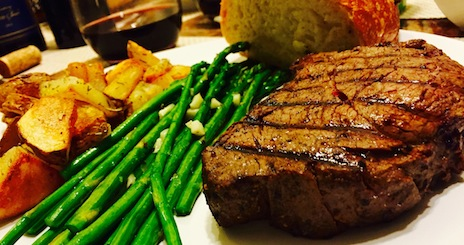
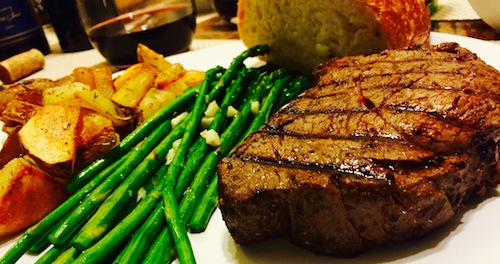
stuff

diff --git a/_posts/2015-09-26-lemoncocoa-pudding.html b/_posts/2015-09-26-lemoncocoa-pudding.html
@@ -1,0 +1,19 @@
+---
+layout: post
+title:  "Lemon Cocoa Pudding"
+date:   2015-09-26
+author: Jessica Dear
+excerpt: Simple lemony cocoa pudding recipe with added liquor!
+tile_image: lemon2.jpg
+carousel_image: lemon1.jpg
+tags:
+  - recipe
+---
+
+<p><img class="pull-left slightly-wider-photo" style="height: 472px; margin-bottom: .5ex" src="/images/posts/2015-09-26-lemoncocoa/lemon.jpg"/>Bacon ipsum dolor amet biltong frankfurter spare ribs, kielbasa andouille pork loin landjaeger cupim. Porchetta leberkas tri-tip chicken, cow meatball prosciutto. Cupim pork doner ground round pancetta. Kevin ham hock jerky salami capicola, beef pancetta filet mignon pork loin spare ribs. Rump pancetta ball tip doner, jerky shank chicken swine picanha alcatra capicola meatloaf ground round sirloin kielbasa. Ribeye porchetta ham landjaeger kevin turkey doner corned beef drumstick short loin. Sirloin t-bone drumstick, short loin landjaeger cupim strip steak pastrami spare ribs ground round salami biltong bresaola pork loin chicken.</p>
+
+<p><img class="pull-left slightly-wider-photo" style="height: 472px; margin-bottom: .5ex" src="/images/posts/2015-09-26-lemoncocoa/cocoa.jpg"/>Shoulder pork loin cow salami tail, capicola jowl picanha strip steak boudin doner biltong tenderloin short loin. Shoulder picanha hamburger tongue tail, biltong cow. Pork chop pork loin chuck biltong pig. Cupim flank sausage cow shoulder alcatra, ribeye fatback pig beef corned beef shankle meatball capicola salami. Sirloin ham hock alcatra shankle tenderloin. Turkey boudin brisket jowl tri-tip picanha flank cow. Tail prosciutto boudin kielbasa jowl landjaeger jerky sirloin tongue sausage t-bone brisket strip steak.</p>
+
+<p><img class="pull-left slightly-wider-photo" style="height: 472px; margin-bottom: .5ex" src="/images/posts/2015-09-26-lemoncocoa/pudding.jpg"/>Pastrami ball tip flank, tenderloin meatloaf ground round pork loin andouille. Tenderloin spare ribs prosciutto tail ham. Alcatra beef meatloaf, pork loin corned beef tail bacon boudin. Turkey jowl doner fatback pig. Brisket cow ground round andouille, bresaola picanha leberkas sausage pastrami chicken.</p>
+
+Shankle strip steak tail hamburger. Turducken cow pork loin, landjaeger beef ribs short loin tongue bresaola drumstick shoulder. Ground round short loin pork loin shoulder bacon ham hock pork chop. Ribeye jerky meatball venison ham hock t-bone bresaola rump. Leberkas meatloaf jerky brisket ham hock frankfurter doner kevin ham.

diff --git a/index.html b/index.html
@@ -7,14 +7,14 @@ layout: homepage
   <h1 class="page-heading"></h1>
 
   <div class="post-list row">
-    {% for post in site.posts %}
-      <div class="col-md-4 post-tile">
+    {% for post in paginator.posts %}
+      <div class="col-md-4 col-lg-3 col-sm-6 col-xs-12 post-tile">
         <div class="highlighter"><a class="post-image" href="{{ post.url | prepend: site.baseurl }}">
           <img class="img-responsive" src="/images/tile-image/{{post.tile_image}}"/>
         </a>
 
         <h2>
-          <a href="{{ post.url | prepend: site.baseurl }}">{{ post.title }}</a>
+          <a href="{{ post.url | prepend: site.baseurl }}">{% if post.tags contains 'recipe' %}Cooking: {% endif %}{{ post.title }}</a>
         </h2>
       </div>
         <aside>{{ post.date | date: "%B %-d, %Y" }}</aside>
@@ -23,8 +23,11 @@ layout: homepage
           {{ post.excerpt }}
         </p>
       </div>
-    {% cycle '', '', '</div><div class="post-list row">' %}
+      <div class="clearfix visible-xs-block"></div>
+    {% cycle '', '<div class="clearfix visible-sm-block"></div>' %}
+    {% cycle '', '', '<div class="clearfix visible-md-block"></div>' %}
+    {% cycle '', '', '', '<div class="clearfix visible-lg-block"></div>' %}
     {% endfor %}
   </div>
-
+  {% include paginator.html %}
 </div>

diff --git a/recipes.html b/recipes.html
@@ -1,7 +1,31 @@
 ---
-layout: page
+layout: collection
 title: Recipes
-permalink: /recipes/
 ---
 
-NONE YET :\
+<div class="home">
+
+  <h1 class="page-heading"></h1>
+
+  <div class="post-list row">
+    {% for post in site.posts %}
+      {% if post.tags contains 'recipe' %}
+      <div class="col-md-4 col-lg-3 col-sm-6 col-xs-12 post-tile">
+        <div class="highlighter"><a class="post-image" href="{{ post.url | prepend: site.baseurl }}">
+          <img class="img-responsive" src="/images/tile-image/{{post.tile_image}}"/>
+        </a>
+
+        <h2>
+          <a href="{{ post.url | prepend: site.baseurl }}">{{ post.title }}</a>
+        </h2>
+      </div>
+        <aside>{{ post.date | date: "%B %-d, %Y" }}</aside>
+      </div>
+      <div class="clearfix visible-xs-block"></div>
+    {% cycle '', '<div class="clearfix visible-sm-block"></div>' %}
+    {% cycle '', '', '<div class="clearfix visible-md-block"></div>' %}
+    {% cycle '', '', '', '<div class="clearfix visible-lg-block"></div>' %}
+    {% endif %}
+    {% endfor %}
+  </div>
+</div>

diff --git a/_includes/paginator.html b/_includes/paginator.html
@@ -1,0 +1,29 @@
+{% if paginator.total_pages > 1 %}
+<nav class="text-center">
+  <ul class="pagination pagination-sm">
+    {% if paginator.previous_page %}
+    <li>
+      <a href="{{ paginator.previous_page_path }}" aria-label="Previous"><span aria-hidden="true">&laquo; Previous</span></a>
+    </li>
+    {% endif %}
+
+    {% for page in (1..paginator.total_pages) %}
+    {% if page == paginator.page %}
+      <li class="active"><a href="#">{{ page }}</a></li>
+    {% elsif page == 1 %}
+      <li><a href="{{ paginator.previous_page_path | prepend: site.baseurl | replace: '//', '/' }}">{{ page }}</a></li>
+    {% else %}
+      <li><a href="{{ site.paginate_path | prepend: site.baseurl | replace: '//', '/' | replace: ':num', page }}">{{ page }}</a></li>
+    {% endif %}
+
+  {% endfor %}
+    {% if paginator.next_page %}
+    <li>
+      <a href="{{ paginator.next_page_path }}" aria-label="Next">
+        <span aria-hidden="true">Next &raquo;</span>
+      </a>
+    </li>
+    {% endif %}
+  </ul>
+</nav>
+{% endif %}

diff --git a/_sass/_overrides.scss b/_sass/_overrides.scss
@@ -23,6 +23,9 @@ article.post-content {
     clear: both;
     margin-bottom: 1em;
   }
+  img.slightly-wider-photo {
+    width: auto;
+  }
   img {
     width: 350px;
     border: 1px solid #111;
@@ -81,8 +84,6 @@ div.post-list {
       margin-top: 1ex;
       display: block;
       img {
-        width: 356px;
-        height: 154px;
         margin: 0 auto;
         border: 2px solid #cdcdcd;
       }
@@ -234,8 +235,25 @@ a.site-title {
 .carousel-fade .carousel-control {
   z-index: 2;
 }
-// // .carousel,
-// // .carousel-inner,
-// // .carousel-inner .item {
-// //   height: 100%;
-// // }
+
+a.carousel-control {
+  opacity: 1;
+}
+
+.pagination li {
+  &.active {
+    a, a:hover {
+      color: #fff;
+      background-color: $text-color;
+      border-color: $text-color;
+    }
+  }
+  a {
+      color: $grey-color;
+      font-size: 2.2ex;
+      &:hover {
+        color: $text-color;
+        background-color: #C0C0C0;
+      }
+  }
+}

diff --git a/_layouts/collection.html b/_layouts/collection.html
@@ -6,12 +6,13 @@
   <body class="page-homepage">
 
     {% include header.html %}
-    {% if paginator.page == 1 %}
-      {% include homepage_carousel.html %}
-    {% endif %}
+
     <!-- <div class="home-picture"></div> -->
 
     <div class="container">
+      <header class="post-header">
+        <h1 class="post-title">{{ page.title }}</h1>
+      </header>
       <div class="page-content">
         <div class="wrapper">
           {{ content }}

diff --git a/css/main.scss b/css/main.scss
@@ -25,7 +25,7 @@ $grey-color-dark:  darken($grey-color, 25%);
 $content-width:    800px;
 
 $on-palm:          600px;
-$on-laptop:        800px;
+$on-laptop:        1150px;
 
 
 

diff --git a/about.html b/about.html
@@ -1,7 +1,6 @@
 ---
 layout: page
 title: About
-permalink: /about/
 ---
 
 <div class="about-page row">

diff --git a/places.html b/places.html
@@ -1,7 +1,6 @@
 ---
 layout: page
 title: Places
-permalink: /places/
 ---
 
 blah

diff --git a/404.html b/404.html
@@ -1,0 +1,1 @@
+<p>That doesn't exist #oops #wah</p>

diff --git a/_posts/2015-09-23-lilian-to-canada.md b/_posts/2015-09-23-lilian-to-canada.md
@@ -10,9 +10,13 @@ carousel_image: enchilada.jpg
 
 
 
-<p><img class="pull-left" src="/images/posts/2015-09-23-lilian-to-canada/enchilada3.jpg"/>Bacon ipsum dolor amet ham picanha boudin pork sausage chicken hamburger beef pastrami fatback frankfurter beef ribs. Pork loin swine pancetta beef kielbasa t-bone kevin sausage frankfurter picanha fatback boudin pastrami salami tri-tip. Short loin jowl pig turducken pastrami pork belly biltong hamburger pancetta. Prosciutto ham shank drumstick capicola ball tip. Turducken rump shank swine pastrami tri-tip. Beef tongue fatback shank shoulder boudin. Turkey shank doner, ground round pastrami pork belly pork loin biltong salami sausage hamburger chuck t-bone.</p>
+<p>Bacon ipsum dolor amet ham picanha boudin pork sausage chicken hamburger beef pastrami fatback frankfurter beef ribs. Pork loin swine pancetta beef kielbasa t-bone kevin sausage frankfurter picanha fatback boudin pastrami salami tri-tip. Short loin jowl pig turducken pastrami pork belly biltong hamburger pancetta. Prosciutto ham shank drumstick capicola ball tip. Turducken rump shank swine pastrami tri-tip. Beef tongue fatback shank shoulder boudin. Turkey shank doner, ground round pastrami pork belly pork loin biltong salami sausage hamburger chuck t-bone.</p>
 
-<p><img class="pull-right" src="/images/posts/2015-09-23-lilian-to-canada/ceviche.jpg"/>Rump turkey alcatra jerky t-bone. Ground round flank pork chop pork loin rump jowl. Sirloin ribeye rump doner biltong fatback alcatra pig. Pastrami doner flank bacon boudin shank salami. Ham biltong chicken ball tip sausage flank spare ribs ham hock. Shoulder corned beef kielbasa beef short ribs filet mignon, pork tail sausage venison sirloin. Meatball bacon rump sirloin, pork alcatra tail leberkas shank meatloaf t-bone kielbasa ribeye corned beef tri-tip.</p>
+<div class="photo-array">
+<img src="/images/posts/2015-09-23-lilian-to-canada/enchilada3.jpg"/><img src="/images/posts/2015-09-23-lilian-to-canada/ceviche.jpg"/><img src="/images/posts/2015-09-23-lilian-to-canada/habanero_marg.jpg"/>
+</div>
 
-<p><img class="pull-left" src="/images/posts/2015-09-23-lilian-to-canada/habanero_marg.jpg"/>Tri-tip ribeye kevin salami kielbasa. Kevin ribeye jowl, venison drumstick shankle kielbasa meatloaf pastrami tri-tip sirloin sausage spare ribs flank. Short ribs bresaola leberkas, picanha jerky meatloaf swine. Sirloin pancetta shoulder, porchetta shank beef ribs cupim.</p>
+<p>Rump turkey alcatra jerky t-bone. Ground round flank pork chop pork loin rump jowl. Sirloin ribeye rump doner biltong fatback alcatra pig. Pastrami doner flank bacon boudin shank salami. Ham biltong chicken ball tip sausage flank spare ribs ham hock. Shoulder corned beef kielbasa beef short ribs filet mignon, pork tail sausage venison sirloin. Meatball bacon rump sirloin, pork alcatra tail leberkas shank meatloaf t-bone kielbasa ribeye corned beef tri-tip.</p>
+
+<p>Tri-tip ribeye kevin salami kielbasa. Kevin ribeye jowl, venison drumstick shankle kielbasa meatloaf pastrami tri-tip sirloin sausage spare ribs flank. Short ribs bresaola leberkas, picanha jerky meatloaf swine. Sirloin pancetta shoulder, porchetta shank beef ribs cupim.</p>
 

diff --git a/_posts/2015-09-02-friend-made-dinner.md b/_posts/2015-09-02-friend-made-dinner.md
@@ -9,7 +9,7 @@ carousel_image: filet.jpg
 ---
 
 
-<p><img class="pull-left" src="/images/posts/2015-09-02-friend-made-dinner/filet3.jpg"/>Bacon ipsum dolor amet ham picanha boudin pork sausage chicken hamburger beef pastrami fatback frankfurter beef ribs. Pork loin swine pancetta beef kielbasa t-bone kevin sausage frankfurter picanha fatback boudin pastrami salami tri-tip. Short loin jowl pig turducken pastrami pork belly biltong hamburger pancetta. Prosciutto ham shank drumstick capicola ball tip. Turducken rump shank swine pastrami tri-tip. Beef tongue fatback shank shoulder boudin. Turkey shank doner, ground round pastrami pork belly pork loin biltong salami sausage hamburger chuck t-bone.</p>
+<p><img class="pull-left slightly-wider-photo" src="/images/posts/2015-09-02-friend-made-dinner/filet3.jpg"/>Bacon ipsum dolor amet ham picanha boudin pork sausage chicken hamburger beef pastrami fatback frankfurter beef ribs. Pork loin swine pancetta beef kielbasa t-bone kevin sausage frankfurter picanha fatback boudin pastrami salami tri-tip. Short loin jowl pig turducken pastrami pork belly biltong hamburger pancetta. Prosciutto ham shank drumstick capicola ball tip. Turducken rump shank swine pastrami tri-tip. Beef tongue fatback shank shoulder boudin. Turkey shank doner, ground round pastrami pork belly pork loin biltong salami sausage hamburger chuck t-bone.</p>
 
 Rump turkey alcatra jerky t-bone. Ground round flank pork chop pork loin rump jowl. Sirloin ribeye rump doner biltong fatback alcatra pig. Pastrami doner flank bacon boudin shank salami. Ham biltong chicken ball tip sausage flank spare ribs ham hock. Shoulder corned beef kielbasa beef short ribs filet mignon, pork tail sausage venison sirloin. Meatball bacon rump sirloin, pork alcatra tail leberkas shank meatloaf t-bone kielbasa ribeye corned beef tri-tip.
 
